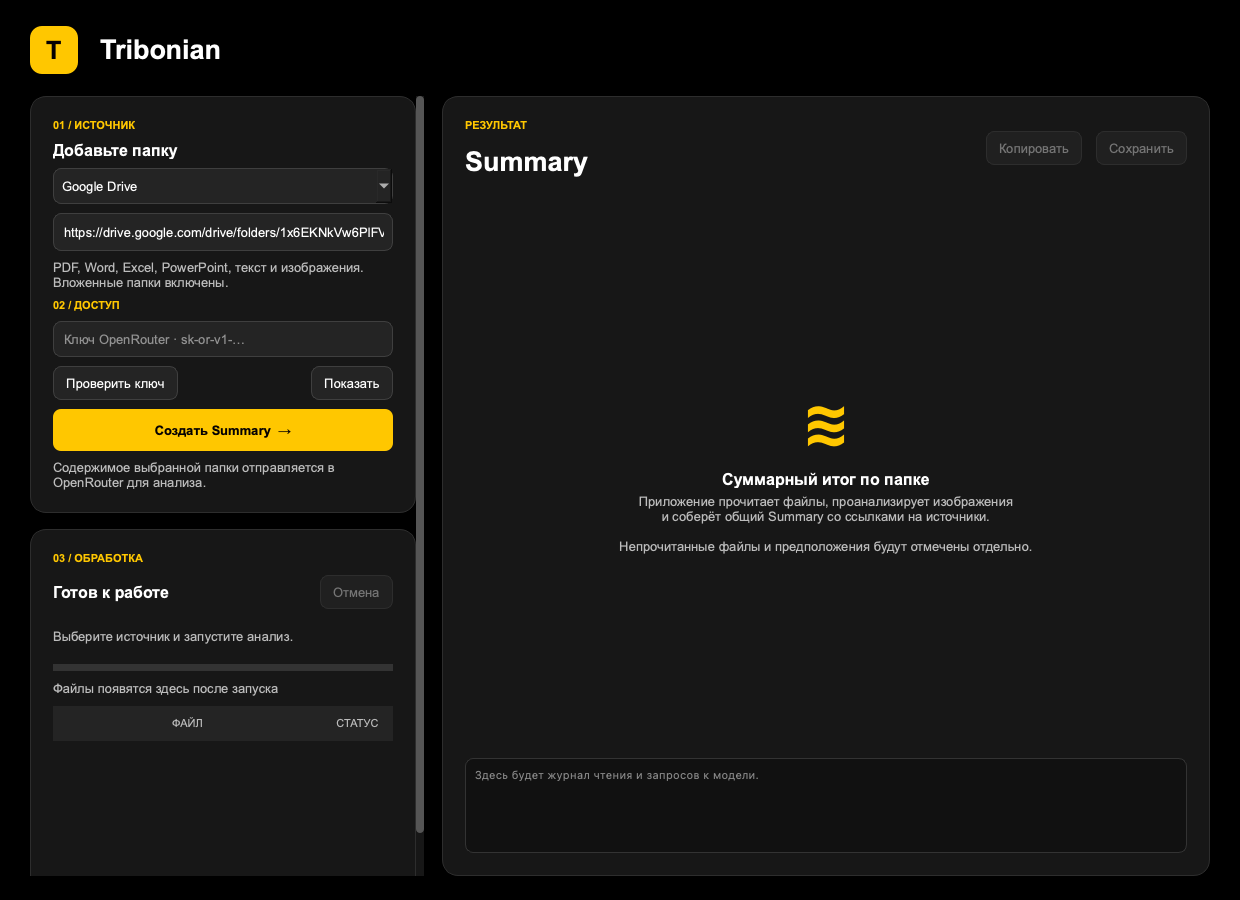
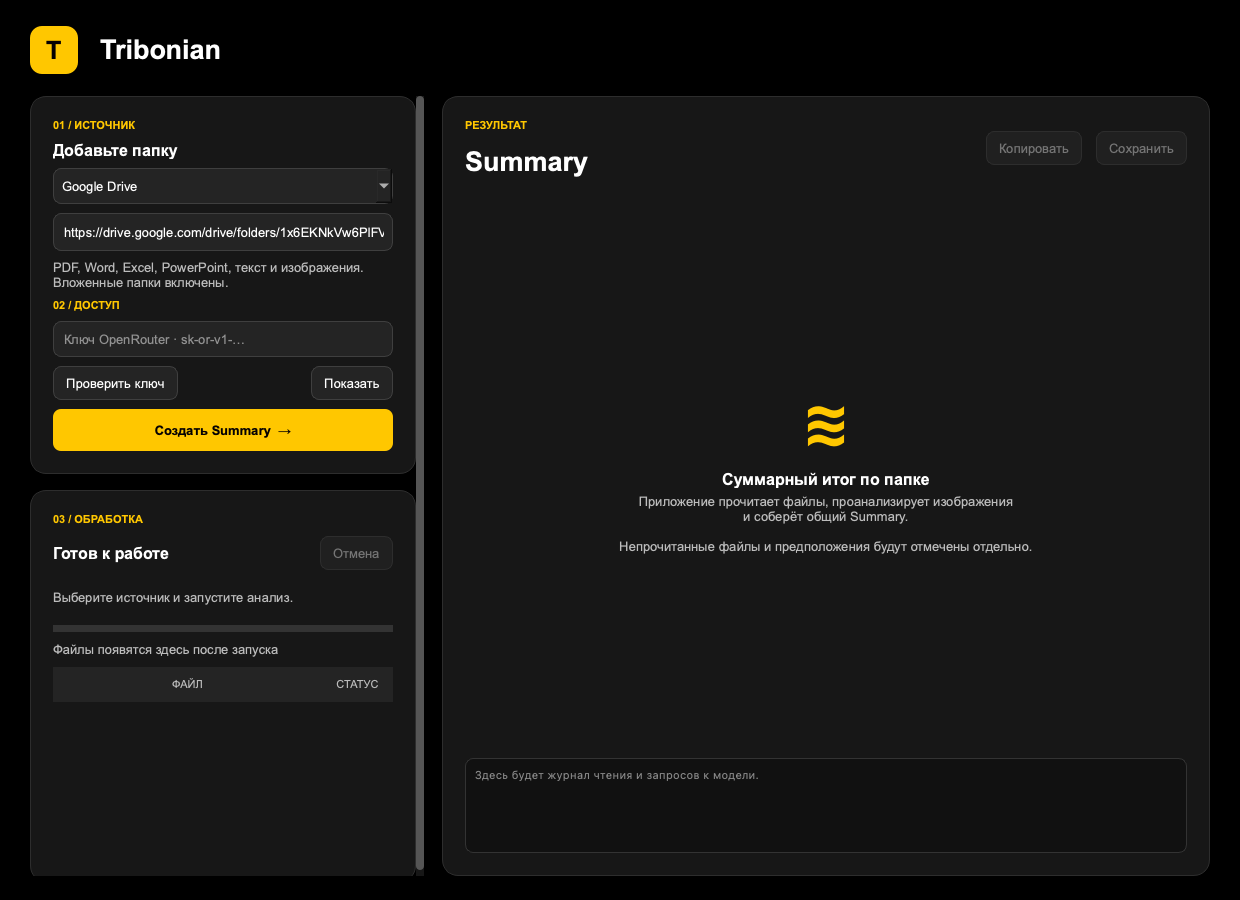
Сократить инструкцию запуска и обновить снимок интерфейса

diff --git a/README.md b/README.md
@@ -1,31 +1,20 @@
 # Tribonian
 
-Настольное Python-приложение, которое делает общий **Summary содержимого папки**: читает документы и изображения, связывает факты между источниками и показывает пробелы в данных.
+Summary локальной папки или Google Drive. Читает документы и изображения, показывает прогресс и ошибки по файлам. Предположения о непрочитанных файлах отмечает отдельно.
 
-![Интерфейс Tribonian](docs/interface.png)
+## Готовая программа для Windows
 
-- Локальная папка или публичная ссылка Google Drive, включая вложенные папки.
-- Прогресс поиска, скачивания, чтения, анализа LLM и составления Summary.
-- Текст и изображения через OpenRouter; по умолчанию `minimax/minimax-m3.1-flash:free`.
-- Статус каждого файла: **Прочитан / Частично / Не прочитан**, причина ошибки и количество обработанных фрагментов.
-- Отдельный раздел с осторожными предположениями о непрочитанных файлах по имени и общему контексту. Такие предположения прямо помечены как непроверенные.
-- Копирование результата, экспорт в Markdown и JSON, отмена обработки, проверка API-ключа.
+В [Actions](https://github.com/KirP32/Tribonian/actions/workflows/verify.yml) откройте последний успешный запуск и скачайте **Tribonian-Windows**. Распакуйте весь архив и запустите `Tribonian.exe`, сохранив папку `_internal` рядом. Python не нужен; для скачивания может потребоваться вход в GitHub.
 
-## Быстрый запуск
+На macOS и Linux запускайте приложение из кода по инструкции ниже.
 
-Требуется Python 3.11 или новее; проверяемая в CI версия — Python 3.12. Для анализа нужен интернет и ключ OpenRouter.
+## Приложение из кода
+
+Нужны Python 3.12 и интернет. Сначала скачайте проект:
 
 ```bash
 git clone https://github.com/KirP32/Tribonian.git
 cd Tribonian
-```
-
-**Windows / PowerShell:**
-
-```powershell
-py -3.12 -m venv .venv
-.\.venv\Scripts\python.exe -m pip install .
-.\.venv\Scripts\python.exe -m tribonian
 ```
 
 **macOS / Linux:**
@@ -36,92 +25,38 @@ python3 -m venv .venv
 .venv/bin/python -m tribonian
 ```
 
-На Linux необходим графический сеанс; при отсутствии системных библиотек Qt установите `libegl1`, `libopengl0`, `libxcb-cursor0`.
+**Windows / PowerShell:**
 
-Для воспроизводимой установки с [uv](https://docs.astral.sh/uv/):
-
-```bash
-uv sync --locked
-uv run python -m tribonian
+```powershell
+py -3.12 -m venv .venv
+.\.venv\Scripts\python.exe -m pip install .
+.\.venv\Scripts\python.exe -m tribonian
 ```
 
-В приложении вставьте ключ OpenRouter, нажмите **«Проверить ключ»**, выберите источник и нажмите **«Создать Summary»**. Ссылка из задания уже подставлена.
+Для повторного запуска нужна только последняя команда. В окне вставьте ключ OpenRouter, выберите папку или ссылку и нажмите **«Создать Summary»**. Результат можно скопировать или сохранить.
 
-Ключ можно хранить в `.env` в корне проекта:
+## Без окна: командная строка
+
+После установки создайте `.env` в корне проекта:
 
 ```dotenv
 OPENROUTER_API_KEY=ваш_ключ
-OPENROUTER_MODEL=minimax/minimax-m3.1-flash:free
 ```
 
-Скопируйте `.env.example` в `.env` и заполните значение. Файл `.env` исключён из Git; ключ из поля приложения действует только до закрытия программы. В собранном приложении `.env` читается рядом с исполняемым файлом. Переменные окружения имеют приоритет.
+**macOS / Linux:**
 
-## Windows без установки Python
+```bash
+.venv/bin/python -m tribonian.cli --folder "/путь/к/папке" --output summary.md
+```
 
-Откройте [Actions](https://github.com/KirP32/Tribonian/actions/workflows/verify.yml), выберите успешный запуск и скачайте артефакт **Tribonian-Windows**. Распакуйте архив целиком и запустите `Tribonian.exe`. Папка `_internal` должна оставаться рядом с `.exe`. Для скачивания артефакта GitHub может потребовать вход в аккаунт.
-
-Сборка выполняется автоматически при обновлении `main`. Ключ в неё не включается: вставьте его в интерфейсе или положите `.env` рядом с `.exe`.
-
-Самостоятельная сборка на Windows:
+**Windows / PowerShell:**
 
 ```powershell
-.\.venv\Scripts\python.exe -m pip install ".[dev]"
-.\.venv\Scripts\pyinstaller.exe --noconfirm --clean --windowed --onedir --name Tribonian --copy-metadata gdown --collect-all pypdfium2 --collect-all pypdfium2_raw run_app.py
+.\.venv\Scripts\python.exe -m tribonian.cli --folder "C:\Документы" --output summary.md
 ```
 
-Результат находится в `dist/Tribonian/`. Сборку `.exe` нужно выполнять на Windows; PyInstaller не является кросс-компилятором.
+Для Google Drive замените `--folder "путь"` на `--drive "ссылка_на_папку"`. Результат сохраняется в Markdown и JSON.
 
-## Поддерживаемые данные
+Ключ в код и сборку не включён. `.env` исключён из Git; для готового EXE его можно положить рядом с программой.
 
-| Формат | Что анализируется |
-|---|---|
-| PDF | Текст всех страниц; сканы, изображения и страницы с насыщенной векторной графикой дополнительно отправляются в vision-модель |
-| PNG, JPEG, WebP, GIF, BMP, TIFF | Изображения; все кадры многостраничных файлов |
-| DOCX | Абзацы, таблицы, колонтитулы и встроенные растровые изображения |
-| XLSX, XLSM | Все листы, адреса ячеек, значения, формулы и встроенные растровые изображения |
-| PPTX | Текст, таблицы, данные диаграмм, заметки и встроенные растровые изображения |
-| TXT, MD, CSV, TSV, JSON, XML, HTML, YAML, LOG, RST | Текст с определением кодировки; HTML очищается от скриптов и стилей |
-
-Рекурсивное скачивание Google Drive выполняет `gdown`. Google-документы обрабатываются в формате, в который их экспортирует `gdown`; экспорту требуются права на скачивание. Закрытые папки, запрет скачивания и квоты Drive приводят к понятной ошибке. Сбой скачивания отдельного файла не скрывает остальные файлы. Если Drive не позволяет получить сам список папки, анализ не начинается: утверждать полноту такого списка нельзя.
-
-Старые `.doc`, `.xls`, `.ppt`, архивы, видео, аудио и прочие неподдерживаемые форматы попадают в отчёт как **непрочитанные**. Их можно предварительно конвертировать. Размер одного файла ограничен 100 МБ. Символические ссылки не обходятся; служебные `.git`, `.venv`, `node_modules`, `__pycache__`, `.DS_Store`, `.env` и `.env.*` исключаются из локального обхода.
-
-## Как это устроено
-
-1. `sources.py` собирает полный доступный список локальных файлов или скачивает публичную папку Drive во временную директорию. Содержимое разных файлов с одинаковыми именами не перезаписывается.
-2. `extract.py` извлекает данные. Длинный текст делится на фрагменты до 80 000 символов без обрезания хвоста. Страницы PDF сохраняют номера; картинки подготавливаются для vision.
-3. `llm.py` отправляет каждый фрагмент в OpenRouter. Приложение не задаёт `max_tokens` или `max_completion_tokens`: большие входные данные разбиваются на отдельные запросы, а не ограничиваются выходные токены. Модель возвращает JSON с выжимкой, оценкой читаемости и ограничениями; схема проверяется в Python. Неразборчивый текст даёт статус «Частично» или «Не прочитан», даже если API ответил HTTP 200. Временные сетевые ошибки и HTTP 429/5xx повторяются с задержкой. Пустой ответ или ответ, прерванный самим провайдером, не считается успешным.
-4. `pipeline.py` собирает выжимки в общий Summary. Для небольшой папки финальный запрос также содержит первичные тексты и изображения для сверки; для большого объёма есть промежуточное иерархическое сжатие. В финальный запрос обязательно входят реестр всех обнаруженных файлов, статусы и ошибки.
-5. `gui.py` выполняет обработку в рабочем потоке, поэтому окно остаётся отзывчивым. Отмена прерывает работу между операциями; текущий запрос может завершаться до сетевого тайм-аута.
-
-Файл получает статус **Прочитан** только после успешного извлечения и анализа всех его частей. Если часть данных удалось обработать до ошибки, статус — **Частично**. Если полезного результата нет, статус — **Не прочитан**. При сбое финального Summary сохраняются промежуточные выжимки с явной пометкой.
-
-Статус отражает техническое покрытие, а не гарантию безошибочной расшифровки: качество OCR и выводов зависит от модели и качества изображений. Изображения уменьшаются до 1800 пикселей по длинной стороне; очень мелкий текст может потеряться. Формулы Excel передаются как формулы, не вычисляются. Обнаруженные OLE-объекты, SmartArt, неподдерживаемые медиавложения, сноски Word и невизуализированные диаграммы Word/Excel дают статус «Частично» после извлечения доступного текста; для них рекомендуется экспорт в PDF. Детектор не заменяет полноценный рендеринг сложной разметки Office. Программа составляет summary предоставленной версии правового документа и не проверяет актуальность законодательства.
-
-Имена и содержимое документов передаются модели как данные. Инструкция в документе не получает доступа к инструментам, компьютеру или секретам приложения. В запрос уходит только выбранное содержимое; ключ используется в заголовке авторизации OpenRouter. Временные скачанные файлы удаляются после завершения.
-
-## CLI
-
-Ключ берётся из окружения или `.env`.
-
-```bash
-python -m tribonian.cli --folder ./sample-data --output ./reports/summary.md
-python -m tribonian.cli --drive "https://drive.google.com/drive/folders/1x6EKNkVw6PlFVTr6cGrsVscmRuwqGrXd" --output ./reports/summary.md
-```
-
-Рядом с Markdown сохраняется JSON с реестром файлов и выжимками по фрагментам. Код выхода `0` означает полное техническое покрытие, `2` — отчёт с пробелами, `1` — ошибка запуска, `130` — прерывание.
-
-## QA
-
-```bash
-uv sync --locked --extra dev
-uv run pytest -q
-uv run ruff check .
-uv run ruff format --check .
-```
-
-Автотесты работают без ключа и без сетевых запросов. Они проверяют извлечение форматов, рекурсивный обход, отсутствие потери хвоста текста, повреждённые и неподдерживаемые файлы, частичный результат, HTTP-ошибки, лимиты, отмену, экспорт и поведение интерфейса. CI запускает тесты на Linux и Windows, затем собирает Windows-приложение и проверяет запуск готового `.exe`.
-
-Для живой проверки используйте кнопку «Проверить ключ» и ссылку из задания. Бесплатный вариант модели указан с суффиксом **`:free`**: приложение не переключается автоматически на платный маршрут. Бесплатные модели имеют ограничения частоты и доступности со стороны провайдера.
-
-API: [OpenRouter Chat Completions](https://openrouter.ai/docs/api/api-reference/chat/create-a-chat-completion), [MiniMax M3.1 Flash free](https://openrouter.ai/minimax/minimax-m3.1-flash:free).
+Поддерживаются PDF, DOCX, XLSX/XLSM, PPTX, текст и изображения. Файлы до 100 МБ; неподдерживаемые форматы и ошибки отмечаются в отчёте. Для Drive нужен доступ по ссылке с разрешением скачивания. На Linux для окна нужен графический сеанс; если Qt сообщает о недостающих библиотеках, установите `libegl1`, `libopengl0`, `libxcb-cursor0`.
